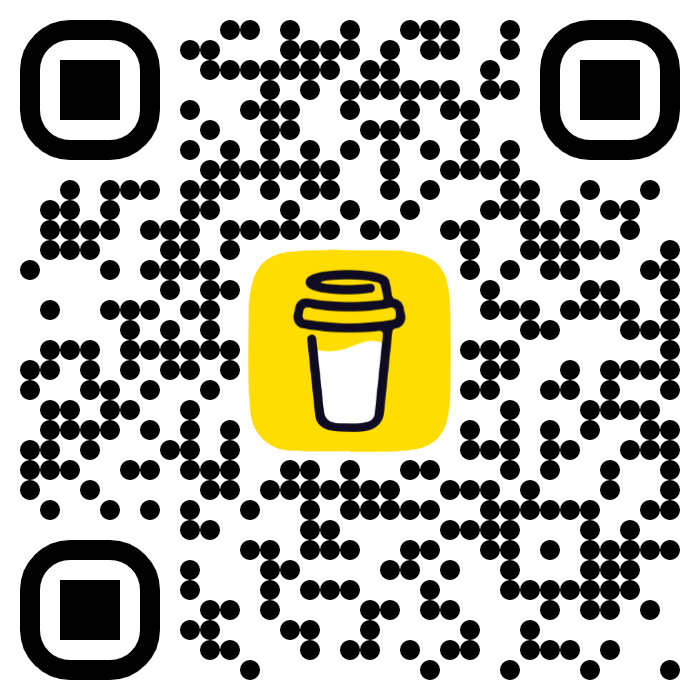
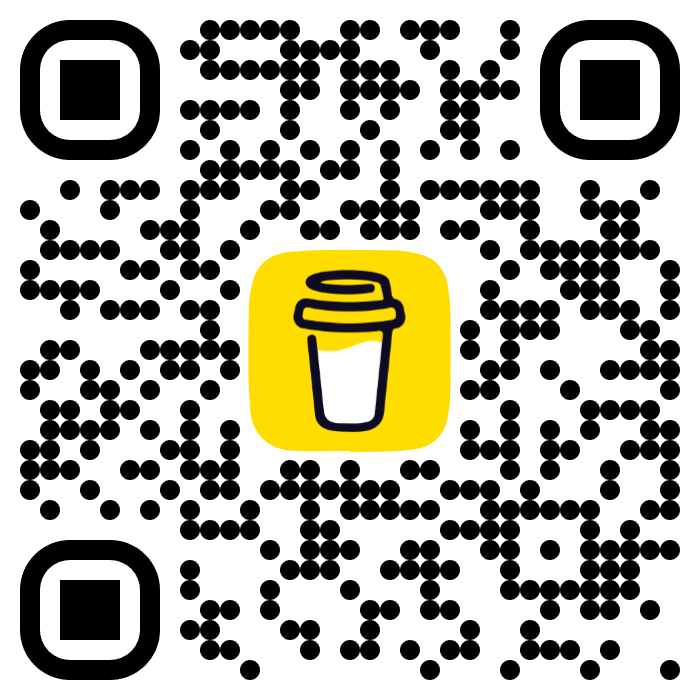
Fix links to new
Fix links to new

Changed nickname

diff --git a/README.md b/README.md
@@ -1,126 +1,111 @@
-### <div align="left">Hi there👋</div>  
-  
+### <div align="left">Hi there👋</div>
 
-I'm a fullstack developer 👨💻 interested in:   
-  
+I'm a fullstack developer 👨💻 interested in:
 
-- 🦀 Rust   
-  
+- 🦀 Rust
 
-- 💎 Cryptocurrencies  
-  
+- 💎 Dapps
 
--  🌐 Web development  
-  
+- 🌐 Web development
 
-🚀 Currently working on a React web project with Lightning Network payment integration.  
-  
+🚀 Currently working on a React web project with Lightning Network payment integration.
 
-👾 I'm familiar with Substrate and the Subsocial project.  
-  
+👾 I'm familiar with Substrate and the Subsocial project.
 
-🐳 Additionally, I dabble in DevOps and enjoy deploying various services on my own server.  
-  
+🐳 Additionally, I dabble in DevOps and enjoy deploying various services on my own server.
 
-🌱 Currently, I'm studying Nostr and exploring the usage of OpenFaas to build a serverless architecture.  
-  
+🌱 Currently, I'm studying Nostr and exploring the usage of OpenFaas to build a serverless architecture.
 
-<br/>  
+<br/>
 
-![Profile views counter](https://komarev.com/ghpvc/?username=erritis&&style=flat-square)  
-  
+![Profile views counter](https://komarev.com/ghpvc/?username=zyrakq&&style=flat-square)
 
-<br/>  
+<br/>
 
+## Github Stats
 
-## Github Stats  
 <picture>
-  <source 
-    srcset="https://github-readme-stats.vercel.app/api/top-langs/?username=erritis&theme=dark"
+  <source
+    srcset="https://github-readme-stats.vercel.app/api/top-langs/?username=zyrakq&theme=dark"
     media="(prefers-color-scheme: dark)"
   />
   <source
-    srcset="https://github-readme-stats.vercel.app/api/top-langs/?username=erritis"
+    srcset="https://github-readme-stats.vercel.app/api/top-langs/?username=zyrakq"
     media="(prefers-color-scheme: light), (prefers-color-scheme: no-preference)"
   />
-<img src="https://github-readme-stats.vercel.app/api/top-langs/?username=erritis" />
+<img src="https://github-readme-stats.vercel.app/api/top-langs/?username=zyrakq" />
 </picture>
 <picture>
-  <source 
-    srcset="https://github-readme-stats.vercel.app/api?username=erritis&show_icons=true&theme=dark"
+  <source
+    srcset="https://github-readme-stats.vercel.app/api?username=zyrakq&show_icons=true&theme=dark"
     media="(prefers-color-scheme: dark)"
   />
   <source
-    srcset="https://github-readme-stats.vercel.app/api?username=erritis&show_icons=true"
+    srcset="https://github-readme-stats.vercel.app/api?username=zyrakq&show_icons=true"
     media="(prefers-color-scheme: light), (prefers-color-scheme: no-preference)"
   />
-  <img src="https://github-readme-stats.vercel.app/api?username=erritis&show_icons=true" />
+  <img src="https://github-readme-stats.vercel.app/api?username=zyrakq&show_icons=true" />
 </picture>
 
-<br/>  
+<br/>
 
 <details><summary> My Skill Set </summary><table><tr><td valign="top" width="33%">
 
+### Frontend
 
-
-### Frontend  
-<div align="center">  
-<a href="https://reactjs.org/" target="_blank"><img style="margin: 10px" src="https://profilinator.rishav.dev/skills-assets/react-original-wordmark.svg" alt="React" height="50" /></a>  
-<a href="https://getbootstrap.com/docs/3.4/javascript/" target="_blank"><img style="margin: 10px" src="https://profilinator.rishav.dev/skills-assets/bootstrap-plain.svg" alt="Bootstrap" height="50" /></a>  
-<a href="https://www.w3schools.com/css/" target="_blank"><img style="margin: 10px" src="https://profilinator.rishav.dev/skills-assets/css3-original-wordmark.svg" alt="CSS3" height="50" /></a>  
-<a href="https://en.wikipedia.org/wiki/HTML5" target="_blank"><img style="margin: 10px" src="https://profilinator.rishav.dev/skills-assets/html5-original-wordmark.svg" alt="HTML5" height="50" /></a>  
-<a href="https://www.javascript.com/" target="_blank"><img style="margin: 10px" src="https://profilinator.rishav.dev/skills-assets/javascript-original.svg" alt="JavaScript" height="50" /></a>  
-<a href="https://www.typescriptlang.org/" target="_blank"><img style="margin: 10px" src="https://profilinator.rishav.dev/skills-assets/typescript-original.svg" alt="TypeScript" height="50" /></a>  
-<a href="https://redux.js.org/" target="_blank"><img style="margin: 10px" src="https://profilinator.rishav.dev/skills-assets/redux-original.svg" alt="Redux" height="50" /></a>  
-<a href="https://mui.com/" target="_blank"><img style="margin: 10px" src="https://profilinator.rishav.dev/skills-assets/mui.png" alt="Material UI" height="50" /></a>  
-<a href="https://styled-components.com/" target="_blank"><img style="margin: 10px" src="https://profilinator.rishav.dev/skills-assets/styled-components.png" alt="Styled Components" height="50" /></a>  
-<a href="https://sass-lang.com/" target="_blank"><img style="margin: 10px" src="https://profilinator.rishav.dev/skills-assets/sass-original.svg" alt="Sass" height="50" /></a>  
-<a href="https://webpack.js.org/" target="_blank"><img style="margin: 10px" src="https://profilinator.rishav.dev/skills-assets/webpack-original.svg" alt="Webpack" height="50" /></a>  
-<a href="https://vuejs.org/" target="_blank"><img style="margin: 10px" src="https://profilinator.rishav.dev/skills-assets/vuejs-original-wordmark.svg" alt="Vue.js" height="50" /></a>  
+<div align="center">
+<a href="https://reactjs.org/" target="_blank"><img style="margin: 10px" src="https://profilinator.rishav.dev/skills-assets/react-original-wordmark.svg" alt="React" height="50" /></a>
+<a href="https://getbootstrap.com/docs/3.4/javascript/" target="_blank"><img style="margin: 10px" src="https://profilinator.rishav.dev/skills-assets/bootstrap-plain.svg" alt="Bootstrap" height="50" /></a>
+<a href="https://www.w3schools.com/css/" target="_blank"><img style="margin: 10px" src="https://profilinator.rishav.dev/skills-assets/css3-original-wordmark.svg" alt="CSS3" height="50" /></a>
+<a href="https://en.wikipedia.org/wiki/HTML5" target="_blank"><img style="margin: 10px" src="https://profilinator.rishav.dev/skills-assets/html5-original-wordmark.svg" alt="HTML5" height="50" /></a>
+<a href="https://www.javascript.com/" target="_blank"><img style="margin: 10px" src="https://profilinator.rishav.dev/skills-assets/javascript-original.svg" alt="JavaScript" height="50" /></a>
+<a href="https://www.typescriptlang.org/" target="_blank"><img style="margin: 10px" src="https://profilinator.rishav.dev/skills-assets/typescript-original.svg" alt="TypeScript" height="50" /></a>
+<a href="https://redux.js.org/" target="_blank"><img style="margin: 10px" src="https://profilinator.rishav.dev/skills-assets/redux-original.svg" alt="Redux" height="50" /></a>
+<a href="https://mui.com/" target="_blank"><img style="margin: 10px" src="https://profilinator.rishav.dev/skills-assets/mui.png" alt="Material UI" height="50" /></a>
+<a href="https://styled-components.com/" target="_blank"><img style="margin: 10px" src="https://profilinator.rishav.dev/skills-assets/styled-components.png" alt="Styled Components" height="50" /></a>
+<a href="https://sass-lang.com/" target="_blank"><img style="margin: 10px" src="https://profilinator.rishav.dev/skills-assets/sass-original.svg" alt="Sass" height="50" /></a>
+<a href="https://webpack.js.org/" target="_blank"><img style="margin: 10px" src="https://profilinator.rishav.dev/skills-assets/webpack-original.svg" alt="Webpack" height="50" /></a>
+<a href="https://vuejs.org/" target="_blank"><img style="margin: 10px" src="https://profilinator.rishav.dev/skills-assets/vuejs-original-wordmark.svg" alt="Vue.js" height="50" /></a>
 </div>
 
 </td><td valign="top" width="33%">
 
+### Backend
 
-
-### Backend  
-<div align="center">  
-<a href="https://docs.microsoft.com/en-us/dotnet/csharp/" target="_blank"><img style="margin: 10px" src="https://profilinator.rishav.dev/skills-assets/csharp-original.svg" alt="C#" height="50" /></a>  
-<a href="https://dotnet.microsoft.com/download/dotnet-framework" target="_blank"><img style="margin: 10px" src="https://profilinator.rishav.dev/skills-assets/dot-net-original-wordmark.svg" alt=".NET" height="50" /></a>  
-<a href="https://dotnet.microsoft.com/download" target="_blank"><img style="margin: 10px" src="https://profilinator.rishav.dev/skills-assets/dotnetcore.png" alt=".Net Core" height="50" /></a>  
-<a href="https://www.rust-lang.org/" target="_blank"><img style="margin: 10px" src="rust.svg" alt="Rust" height="50" /></a>  
-<a href="https://www.python.org/" target="_blank"><img style="margin: 10px" src="https://profilinator.rishav.dev/skills-assets/python-original.svg" alt="Python" height="50" /></a>  
-<a href="https://www.djangoproject.com/" target="_blank"><img style="margin: 10px" src="https://profilinator.rishav.dev/skills-assets/django-original.svg" alt="Django" height="50" /></a>  
-<a href="https://www.elastic.co/" target="_blank"><img style="margin: 10px" src="https://profilinator.rishav.dev/skills-assets/elasticsearch.png" alt="Elastic Search" height="50" /></a>  
-<a href="https://redis.io/" target="_blank"><img style="margin: 10px" src="https://profilinator.rishav.dev/skills-assets/redis-original-wordmark.svg" alt="Redis" height="50" /></a>  
-<a href="https://www.rabbitmq.com/" target="_blank"><img style="margin: 10px" src="https://profilinator.rishav.dev/skills-assets/rabbitmq-icon.svg" alt="RabbitMQ" height="50" /></a>  
-<a href="https://www.mongodb.com/" target="_blank"><img style="margin: 10px" src="https://profilinator.rishav.dev/skills-assets/mongodb-original-wordmark.svg" alt="MongoDB" height="50" /></a>  
-<a href="https://www.postgresql.org/" target="_blank"><img style="margin: 10px" src="https://profilinator.rishav.dev/skills-assets/postgresql-original-wordmark.svg" alt="PostgreSQL" height="50" /></a>  
+<div align="center">
+<a href="https://docs.microsoft.com/en-us/dotnet/csharp/" target="_blank"><img style="margin: 10px" src="https://profilinator.rishav.dev/skills-assets/csharp-original.svg" alt="C#" height="50" /></a>
+<a href="https://dotnet.microsoft.com/download/dotnet-framework" target="_blank"><img style="margin: 10px" src="https://profilinator.rishav.dev/skills-assets/dot-net-original-wordmark.svg" alt=".NET" height="50" /></a>
+<a href="https://dotnet.microsoft.com/download" target="_blank"><img style="margin: 10px" src="https://profilinator.rishav.dev/skills-assets/dotnetcore.png" alt=".Net Core" height="50" /></a>
+<a href="https://www.rust-lang.org/" target="_blank"><img style="margin: 10px" src="rust.svg" alt="Rust" height="50" /></a>
+<a href="https://www.python.org/" target="_blank"><img style="margin: 10px" src="https://profilinator.rishav.dev/skills-assets/python-original.svg" alt="Python" height="50" /></a>
+<a href="https://www.djangoproject.com/" target="_blank"><img style="margin: 10px" src="https://profilinator.rishav.dev/skills-assets/django-original.svg" alt="Django" height="50" /></a>
+<a href="https://www.elastic.co/" target="_blank"><img style="margin: 10px" src="https://profilinator.rishav.dev/skills-assets/elasticsearch.png" alt="Elastic Search" height="50" /></a>
+<a href="https://redis.io/" target="_blank"><img style="margin: 10px" src="https://profilinator.rishav.dev/skills-assets/redis-original-wordmark.svg" alt="Redis" height="50" /></a>
+<a href="https://www.rabbitmq.com/" target="_blank"><img style="margin: 10px" src="https://profilinator.rishav.dev/skills-assets/rabbitmq-icon.svg" alt="RabbitMQ" height="50" /></a>
+<a href="https://www.mongodb.com/" target="_blank"><img style="margin: 10px" src="https://profilinator.rishav.dev/skills-assets/mongodb-original-wordmark.svg" alt="MongoDB" height="50" /></a>
+<a href="https://www.postgresql.org/" target="_blank"><img style="margin: 10px" src="https://profilinator.rishav.dev/skills-assets/postgresql-original-wordmark.svg" alt="PostgreSQL" height="50" /></a>
 </div>
 
 </td><td valign="top" width="33%">
 
+### DevOps
 
-
-### DevOps  
-<div align="center">  
-<a href="https://aws.amazon.com/" target="_blank"><img style="margin: 10px" src="https://profilinator.rishav.dev/skills-assets/amazonwebservices-original-wordmark.svg" alt="AWS" height="50" /></a>  
-<a href="https://kubernetes.io/" target="_blank"><img style="margin: 10px" src="https://profilinator.rishav.dev/skills-assets/kubernetes-icon.svg" alt="Kubernetes" height="50" /></a>  
-<a href="https://www.linux.org/" target="_blank"><img style="margin: 10px" src="https://profilinator.rishav.dev/skills-assets/linux-original.svg" alt="Linux" height="50" /></a>  
-<a href="https://github.com/" target="_blank"><img style="margin: 10px" src="https://profilinator.rishav.dev/skills-assets/git-scm-icon.svg" alt="Git" height="50" /></a>  
-<a href="https://www.nginx.com/" target="_blank"><img style="margin: 10px" src="https://profilinator.rishav.dev/skills-assets/nginx-original.svg" alt="Nginx" height="50" /></a>  
-<a href="https://grafana.com/" target="_blank"><img style="margin: 10px" src="https://profilinator.rishav.dev/skills-assets/grafana.png" alt="Grafana" height="50" /></a>  
-<a href="https://www.docker.com/" target="_blank"><img style="margin: 10px" src="https://profilinator.rishav.dev/skills-assets/docker-original-wordmark.svg" alt="Docker" height="50" /></a>  
+<div align="center">
+<a href="https://aws.amazon.com/" target="_blank"><img style="margin: 10px" src="https://profilinator.rishav.dev/skills-assets/amazonwebservices-original-wordmark.svg" alt="AWS" height="50" /></a>
+<a href="https://kubernetes.io/" target="_blank"><img style="margin: 10px" src="https://profilinator.rishav.dev/skills-assets/kubernetes-icon.svg" alt="Kubernetes" height="50" /></a>
+<a href="https://www.linux.org/" target="_blank"><img style="margin: 10px" src="https://profilinator.rishav.dev/skills-assets/linux-original.svg" alt="Linux" height="50" /></a>
+<a href="https://github.com/" target="_blank"><img style="margin: 10px" src="https://profilinator.rishav.dev/skills-assets/git-scm-icon.svg" alt="Git" height="50" /></a>
+<a href="https://www.nginx.com/" target="_blank"><img style="margin: 10px" src="https://profilinator.rishav.dev/skills-assets/nginx-original.svg" alt="Nginx" height="50" /></a>
+<a href="https://grafana.com/" target="_blank"><img style="margin: 10px" src="https://profilinator.rishav.dev/skills-assets/grafana.png" alt="Grafana" height="50" /></a>
+<a href="https://www.docker.com/" target="_blank"><img style="margin: 10px" src="https://profilinator.rishav.dev/skills-assets/docker-original-wordmark.svg" alt="Docker" height="50" /></a>
 </div>
 
-</td></tr></table></details>  
+</td></tr></table></details>
 
-<br/>  
+<br/>
 
+### Support Me
 
+[<img align="left" src="https://getalby.com/p/zeritiq.png" width="240">](https://getalby.com/p/zeritiq)
 
-### Support Me  
-
-[<img align="left" src="https://getalby.com/p/erritis.png" width="240">](https://getalby.com/erritis)
-
-[<img align="left" src="bmc_qr.png" width="230">](https://www.buymeacoffee.com/erritis)
+[<img align="left" src="bmc_qr.png" width="230">](https://www.buymeacoffee.com/zyrakq)
